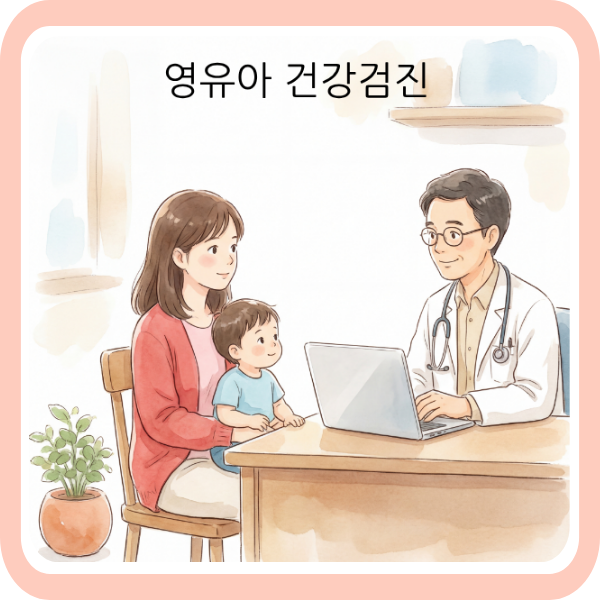
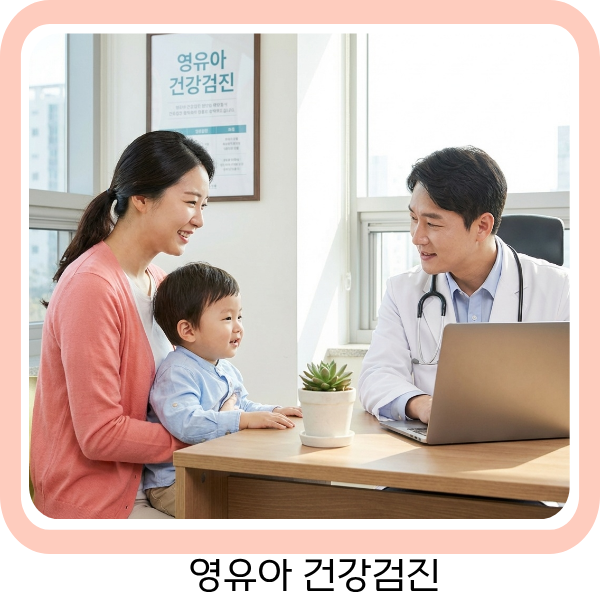
이미지 교체, 모바일 bg 확대, 아동발달센터 담당자 레이아웃(2명×3줄) 및 치료대상 설명 보충
- 새 이미지 교체: main, intro, child, puberty 폴더
- 모바일 sub_visual: background-size auto 100%로 양옆 인물 가시성 개선
- 아동발달센터 담당자 소개: 한 줄 2명씩 3줄 배치, 담당자별 치료 설명 추가
- 치료대상 영역: 각 항목에 상세 설명 추가 (발달지연, 언어발달지연, ADHD, 자폐스펙트럼)
- 모바일 반응형 스타일 추가

diff --git a/src/app/pages/child/child_1/page.tsx b/src/app/pages/child/child_1/page.tsx
@@ -7,6 +7,46 @@ const navItems = [
   { title: '아동발달센터', path: '/pages/child/child_1', active: true },
 ];
 
+// 치료 담당자 정보 (한 줄 2명 × 3줄 구성)
+const therapists = [
+  { 
+    image: '/images/services/child/child_1_2_img1.jpg', 
+    name: '언어치료사', 
+    title: '언어치료',
+    desc: '언어발달 지연, 말더듬, 발음 문제를 전문적으로 평가하고 치료합니다. 아이의 언어 이해력과 표현력을 체계적으로 향상시켜 원활한 의사소통을 돕습니다.'
+  },
+  { 
+    image: '/images/services/child/child_1_2_img2.jpg', 
+    name: '놀이치료사', 
+    title: '놀이치료',
+    desc: '놀이를 매개로 아이의 정서적 어려움과 행동 문제를 탐색하고 치료합니다. 안전한 환경에서 자유로운 표현을 통해 심리적 안정을 도모합니다.'
+  },
+  { 
+    image: '/images/services/child/child_1_2_img3.jpg', 
+    name: '감각통합치료사', 
+    title: '감각통합치료',
+    desc: '감각 자극에 대한 처리 능력을 향상시키는 전문 치료를 제공합니다. 촉각, 전정감각, 고유수용감각 등을 통합하여 일상생활 적응력을 높입니다.'
+  },
+  { 
+    image: '/images/services/child/child_1_2_img4.jpg', 
+    name: '인지치료사', 
+    title: '인지치료',
+    desc: '학습 능력과 주의집중력 향상을 위한 인지 훈련을 진행합니다. 기억력, 문제해결력, 실행 기능 등을 체계적으로 평가하고 개선합니다.'
+  },
+  { 
+    image: '/images/services/child/child_1_2_img5.jpg', 
+    name: '사회성치료사', 
+    title: '사회성 그룹치료',
+    desc: '또래 관계 형성과 사회적 기술 습득을 돕는 그룹 프로그램을 운영합니다. 소통 방법, 감정 조절, 협동 능력을 실제 상황에서 연습합니다.'
+  },
+  { 
+    image: '/images/services/child/child_1_2_img6.jpg', 
+    name: '미술치료사', 
+    title: '미술치료',
+    desc: '미술 활동을 통해 아이의 내면을 표현하고 심리적 안정을 도모합니다. 창작 과정에서 자아 존중감과 정서 조절 능력을 향상시킵니다.'
+  },
+];
+
 const programs = [
   { icon: '/images/services/child/child_1_2_img1.jpg', title: '언어치료', desc: '언어발달 지연, 말더듬, 발음 교정' },
   { icon: '/images/services/child/child_1_2_img2.jpg', title: '놀이치료', desc: '정서적 어려움, 행동 문제 개선' },
@@ -18,10 +58,30 @@ const programs = [
 ];
 
 const targetAreas = [
-  { icon: '/images/services/child/child_1_4_img1.svg', title: '발달지연', desc: '전반적인 발달이 느린 아이' },
-  { icon: '/images/services/child/child_1_4_img2.svg', title: '언어발달지연', desc: '또래보다 말이 느린 아이' },
-  { icon: '/images/services/child/child_1_4_img3.svg', title: 'ADHD', desc: '주의력결핍 과잉행동장애' },
-  { icon: '/images/services/child/child_1_4_img4.svg', title: '자폐스펙트럼', desc: '사회적 상호작용의 어려움' },
+  { 
+    icon: '/images/services/child/child_1_4_img1.svg', 
+    title: '발달지연', 
+    desc: '전반적인 발달이 느린 아이',
+    detail: '인지, 언어, 운동, 사회성 등 전반적인 발달 영역에서 또래에 비해 느린 발달을 보이는 경우입니다. 조기 개입을 통해 발달 격차를 줄이고 잠재력을 최대한 끌어올립니다.'
+  },
+  { 
+    icon: '/images/services/child/child_1_4_img2.svg', 
+    title: '언어발달지연', 
+    desc: '또래보다 말이 느린 아이',
+    detail: '언어 이해력이나 표현력이 또래에 비해 늦은 경우입니다. 말을 시작하는 시기가 늦거나, 어휘력이 부족하거나, 문장 구성이 어려운 아이들에게 전문 언어치료를 제공합니다.'
+  },
+  { 
+    icon: '/images/services/child/child_1_4_img3.svg', 
+    title: 'ADHD', 
+    desc: '주의력결핍 과잉행동장애',
+    detail: '주의력 부족, 과잉행동, 충동성이 특징인 신경발달장애입니다. 집중력 향상, 자기조절 능력 훈련을 통해 학교생활과 일상생활 적응을 돕습니다.'
+  },
+  { 
+    icon: '/images/services/child/child_1_4_img4.svg', 
+    title: '자폐스펙트럼', 
+    desc: '사회적 상호작용의 어려움',
+    detail: '사회적 의사소통과 상호작용에 어려움을 보이며, 제한적이고 반복적인 행동 패턴을 보이는 경우입니다. 개별화된 치료 프로그램으로 사회성과 의사소통 능력을 향상시킵니다.'
+  },
 ];
 
 export default function Child1Page() {
@@ -74,64 +134,89 @@ export default function Child1Page() {
         </div>
       </section>
 
-      {/* 치료 프로그램 */}
+      {/* 치료 담당자 소개 */}
       <section className="child_1_2">
         <div className="w1240">
           <div className="sub_tit_wrap" data-aos="fade-up" style={{ marginBottom: '50px' }}>
-            <h3 style={{ color: '#fff' }}>치료 프로그램</h3>
+            <h3 style={{ color: '#fff' }}>치료 담당자 소개</h3>
             <p style={{ color: 'rgba(255,255,255,0.8)', fontSize: '18px' }}>
-              아이의 특성에 맞는 맞춤형 치료 프로그램을 제공합니다.
+              각 분야 전문 치료사가 아이의 발달을 책임집니다.
             </p>
           </div>
 
           <div
             style={{
               display: 'grid',
-              gridTemplateColumns: 'repeat(auto-fit, minmax(200px, 1fr))',
-              gap: '20px',
+              gridTemplateColumns: 'repeat(2, 1fr)',
+              gap: '25px',
             }}
             data-aos="fade-up"
+            className="therapist_grid"
           >
-            {programs.map((item, index) => (
+            {therapists.map((item, index) => (
               <div
                 key={index}
                 style={{
-                  background: 'rgba(255,255,255,0.95)',
-                  borderRadius: '16px',
-                  padding: '30px 20px',
-                  textAlign: 'center',
-                  transition: 'transform 0.3s',
+                  background: 'rgba(255,255,255,0.98)',
+                  borderRadius: '20px',
+                  padding: '25px',
+                  display: 'flex',
+                  gap: '20px',
+                  alignItems: 'flex-start',
+                  boxShadow: '0 4px 20px rgba(0,0,0,0.08)',
                 }}
+                className="therapist_card"
               >
-                <Image
-                  src={item.icon}
-                  alt={item.title}
-                  width={80}
-                  height={80}
-                  style={{ marginBottom: '15px', borderRadius: '12px', objectFit: 'cover' }}
-                />
-                <h4
-                  style={{
-                    fontFamily: 'Pretendard',
-                    fontSize: '18px',
-                    fontWeight: 600,
-                    marginBottom: '10px',
-                    color: 'var(--grayscale-800)',
-                  }}
-                >
-                  {item.title}
-                </h4>
-                <p
-                  style={{
-                    fontFamily: 'Pretendard',
-                    fontSize: '15px',
-                    fontWeight: 300,
-                    color: 'var(--grayscale-60001)',
-                    lineHeight: 1.5,
-                  }}
-                >
-                  {item.desc}
-                </p>
+                <div style={{ flexShrink: 0 }}>
+                  <Image
+                    src={item.image}
+                    alt={item.name}
+                    width={100}
+                    height={100}
+                    style={{ 
+                      borderRadius: '16px', 
+                      objectFit: 'cover',
+                      width: '100px',
+                      height: '100px',
+                    }}
+                  />
+                </div>
+                <div style={{ flex: 1 }}>
+                  <h4
+                    style={{
+                      fontFamily: 'Pretendard',
+                      fontSize: '20px',
+                      fontWeight: 600,
+                      marginBottom: '6px',
+                      color: 'rgb(112, 144, 81)',
+                    }}
+                  >
+                    {item.title}
+                  </h4>
+                  <span
+                    style={{
+                      display: 'inline-block',
+                      fontFamily: 'Pretendard',
+                      fontSize: '14px',
+                      fontWeight: 500,
+                      color: 'var(--grayscale-60001)',
+                      marginBottom: '12px',
+                    }}
+                  >
+                    {item.name}
+                  </span>
+                  <p
+                    style={{
+                      fontFamily: 'Pretendard',
+                      fontSize: '15px',
+                      fontWeight: 300,
+                      color: 'var(--grayscale-800)',
+                      lineHeight: 1.6,
+                    }}
+                  >
+                    {item.desc}
+                  </p>
+                </div>
               </div>
             ))}
           </div>
@@ -158,50 +243,67 @@ export default function Child1Page() {
           <div
             style={{
               display: 'grid',
-              gridTemplateColumns: 'repeat(auto-fit, minmax(250px, 1fr))',
+              gridTemplateColumns: 'repeat(2, 1fr)',
               gap: '25px',
               marginBottom: '60px',
             }}
             data-aos="fade-up"
+            className="target_grid"
           >
             {targetAreas.map((item, index) => (
               <div
                 key={index}
                 style={{
-                  background: 'var(--grayscale-5002)',
+                  background: '#fff',
                   borderRadius: '20px',
-                  padding: '35px 25px',
-                  textAlign: 'center',
+                  padding: '30px',
+                  boxShadow: '0 4px 20px rgba(0,0,0,0.06)',
                 }}
+                className="target_card"
               >
-                <Image
-                  src={item.icon}
-                  alt={item.title}
-                  width={60}
-                  height={60}
-                  style={{ marginBottom: '20px' }}
-                />
-                <h4
-                  style={{
-                    fontFamily: 'Pretendard',
-                    fontSize: '22px',
-                    fontWeight: 600,
-                    marginBottom: '12px',
-                    color: 'var(--grayscale-800)',
-                  }}
-                >
-                  {item.title}
-                </h4>
+                <div style={{ display: 'flex', alignItems: 'center', gap: '15px', marginBottom: '15px' }}>
+                  <Image
+                    src={item.icon}
+                    alt={item.title}
+                    width={50}
+                    height={50}
+                  />
+                  <div>
+                    <h4
+                      style={{
+                        fontFamily: 'Pretendard',
+                        fontSize: '20px',
+                        fontWeight: 600,
+                        marginBottom: '4px',
+                        color: 'var(--grayscale-800)',
+                      }}
+                    >
+                      {item.title}
+                    </h4>
+                    <span
+                      style={{
+                        fontFamily: 'Pretendard',
+                        fontSize: '14px',
+                        fontWeight: 400,
+                        color: 'rgb(112, 144, 81)',
+                      }}
+                    >
+                      {item.desc}
+                    </span>
+                  </div>
+                </div>
                 <p
                   style={{
                     fontFamily: 'Pretendard',
-                    fontSize: '16px',
+                    fontSize: '15px',
                     fontWeight: 300,
                     color: 'var(--grayscale-60001)',
-                    lineHeight: 1.6,
+                    lineHeight: 1.7,
+                    paddingLeft: '65px',
                   }}
+                  className="target_detail"
                 >
-                  {item.desc}
+                  {item.detail}
                 </p>
               </div>
             ))}

diff --git a/src/styles/sub.css b/src/styles/sub.css
@@ -471,12 +471,19 @@
   .sub_visual {
     height: 300px;
     margin-top: 60px;
+    /* 모바일에서 배경 이미지를 더 넓게 보이도록 조정 */
+    background-size: auto 100%;
+    background-position: center center;
+  }
+  .sub_visual .txt_wrap {
+    padding: 0 20px;
   }
   .sub_visual .txt_wrap h2 {
-    font-size: 32px;
+    font-size: 28px;
   }
   .sub_visual .txt_wrap p {
     font-size: 14px;
+    padding: 0 10px;
   }
   .sub_nav {
     top: 60px;
@@ -576,6 +583,32 @@
   }
   .child_1_2 {
     padding: 60px 0;
+  }
+  /* 담당자 그리드 모바일 */
+  .child_1_2 .therapist_grid {
+    grid-template-columns: 1fr !important;
+    gap: 15px !important;
+  }
+  .child_1_2 .therapist_card {
+    flex-direction: column !important;
+    align-items: center !important;
+    text-align: center !important;
+    padding: 20px !important;
+  }
+  .child_1_2 .therapist_card > div:first-child {
+    margin-bottom: 10px;
+  }
+  /* 치료대상 그리드 모바일 */
+  .target_grid {
+    grid-template-columns: 1fr !important;
+    gap: 15px !important;
+  }
+  .target_card {
+    padding: 20px !important;
+  }
+  .target_detail {
+    padding-left: 0 !important;
+    margin-top: 10px;
   }
   .general_section {
     padding: 60px 0;
